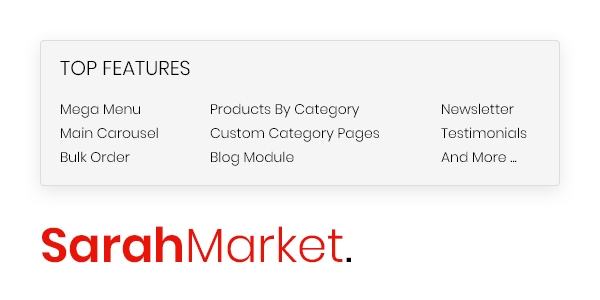
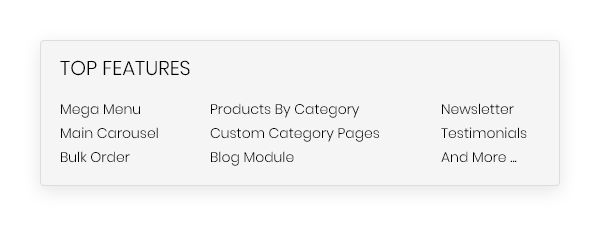
[SarahMarket] Update description page

diff --git a/sarahmarket/description/opencart-sarahmarket-description.html b/sarahmarket/description/opencart-sarahmarket-description.html
@@ -1,10 +1,5 @@
-<html>
-<head>
-<title>opencart-sarahmarket-description</title>
-<meta http-equiv="Content-Type" content="text/html; charset=utf-8">
-</head>
-<body bgcolor="#FFFFFF" leftmargin="0" topmargin="0" marginwidth="0" marginheight="0">
-<!-- Save for Web Slices (opencart-sarahmarket-description.psd - Slices: 01-sarahmarket-aliexpress-clone-opencart-theme, 02-mobile-ui-ux-optimized-opencart-theme, 03-opencart-sarahmarket-subpages, 04-opencart-sarahmarket-top-features) -->
+
+
 <table border="0" cellpadding="0" cellspacing="0">
 	<tr>
 		<td>
@@ -21,9 +16,73 @@
 	</tr>
 	<tr>
 		<td>
-			<img src="https://tvlgiao.github.io/opencart-themes/sarahmarket/description/images/04-opencart-sarahmarket-top-features.png" width="600" height="300" alt="Top Features"></td>
+			<img src="https://tvlgiao.github.io/opencart-themes/sarahmarket/description/images/04-opencart-sarahmarket-top-features.png" width="600" height="230" alt="Top Features"></td>
+	</tr>
+	<tr>
+		<td>
+			<a href="https://themeforest.net/item/sarah-market-sectioned-responsive-shopify-theme-for-supermarket-large-store-groceries-aliexpres/19965279">
+				<img src="https://tvlgiao.github.io/opencart-themes/sarahmarket/description/images/05-sarahmarket-for-shopify.png" width="600" height="40" border="0" alt="SarahMarket for Shopify"></a></td>
+	</tr>
+	<tr>
+		<td>
+			<a href="https://themeforest.net/item/sarahmarket-large-store-grocery-responsive-bigcommerce-theme/19787338">
+				<img src="https://tvlgiao.github.io/opencart-themes/sarahmarket/description/images/06-sarahmarket-for-bigcommerce.png" width="600" height="40" border="0" alt="SarahMarket for BigCommerce"></a></td>
+	</tr>
+	<tr>
+		<td>
+			<img src="https://tvlgiao.github.io/opencart-themes/sarahmarket/description/images/07-sarahmarket-title.png" width="600" height="150" alt=""></td>
 	</tr>
 </table>
-<!-- End Save for Web Slices -->
-</body>
-</html>
+
+
+<h2>SarahMarket - AliExpress Clone OpenCart Theme for Large Store</h2>
+
+<p>Inspired of AliExpress, SarahMarket is a OpenCart theme for OpenCart 3.x made for large stores, supermarket &amp; groceries.</p> Theme has 3 variations: Clean, Red, and Emerald. Each variation has different creative homepages. Main features: Mega menu, slideshow, products by category, bulk order (wholesale b2b order), blog, custom category pages and more.</p>
+
+<h3>Compatibility: OpenCart 3.x</h3>
+
+<h3>Many other features supported in this theme:</h3>
+<ul>
+	<li>List and Grid Product displays</li>
+	<li>Mini dropdown cart</li>
+	<li>Write a review and rating for each product</li>
+	<li>Related Product with slider effect</li>
+	<li>Configurable side column position left or right</li>
+	<li>Show tag cloud of boss tags cloud module</li>
+	<li>Quick filter product by boss manufacturer module</li>
+	<li>Vertical category with multi level</li>
+	<li>Supporting OCmod</li>
+	<li>Supporting multi store</li>
+	<li>Supporting sticky menu, Animated effect</li>
+	<li>Supporting Testimonial module</li>
+	<li>Supporting RTL language</li>
+</ul>
+
+<h2>Community Support &amp; Customer Support</h2>
+<p>Our support team guarantees to respond you within 24 working hours. You can create a new ticket here <a href="http://www.codespotsupport.com/others/" rel="nofollow"><strong>http://www.codespotsupport.com/others/</strong></a>, when you receive an auto-response email it means that your question has been delivered to our system ticket system. We will proceed tickets and respond you to in the queue order.</p>
+<p>Our working hour is from 8:00AM to 5:00PM GMT+8 Monday to Saturday.</p>
+
+<h2>Changelog</h2>
+<pre>
+Version 1.0 - 2018-01-26 - Revision 9:
+- Happy releasing the first version with 20 unique designs!
+</pre>
+
+
+<table>			
+	<tr>
+		<td><a href="http://www.codespotsupport.com/others/" title="Support Center" target="_blank"><img src="https://tvlgiao.github.io/opencart-themes/laparis/support.png" alt="Laparis Opencart Theme" alt="Contact support" /></a></td>
+		<td><a href="http://bossthemes.com/manual/laparis/" title="Laparis Documentation" target="_blank"><img src="https://tvlgiao.github.io/opencart-themes/laparis/docs.png" alt="Laparis Opencart Theme" alt="Documentation" /></a></td>
+		<td><a><img src="https://tvlgiao.github.io/opencart-themes/laparis/email.png" alt="Laparis Opencart Theme" alt="Laparis Opencart Theme" /></a></td>
+	</tr>
+</table>
+
+
+<p><a href="http://www.facebook.com/emthemes" rel="nofollow"><img src="http://wpdance.com/media/themeforest/envato/follow-facebook.jpg" alt="Follow us on Facebook"></a><a href="http://www.youtube.com/emthemes" rel="nofollow"><img src="http://wpdance.com/media/themeforest/envato/follow-youtube.jpg" alt="Follow us on Youtube"></a>
+<br>
+<a href="http://themeforest.net/user/tvlgiao"><img src="http://wpdance.com/media/themeforest/envato/follow-themeforest.jpg" alt="Follow us on ThemeForest"></a><a href="http://themeforest.net/author_dashboard"><img src="http://wpdance.com/media/themeforest/envato/rate-for-us.jpg" alt="Rate for us"></a>
+<br>
+<a href="http://www.codespotsupport.com/others/"><img src="http://wpdance.com/media/themeforest/envato/support-ticket.jpg" alt="Submit a support ticket"></a>
+</p>
+
+
